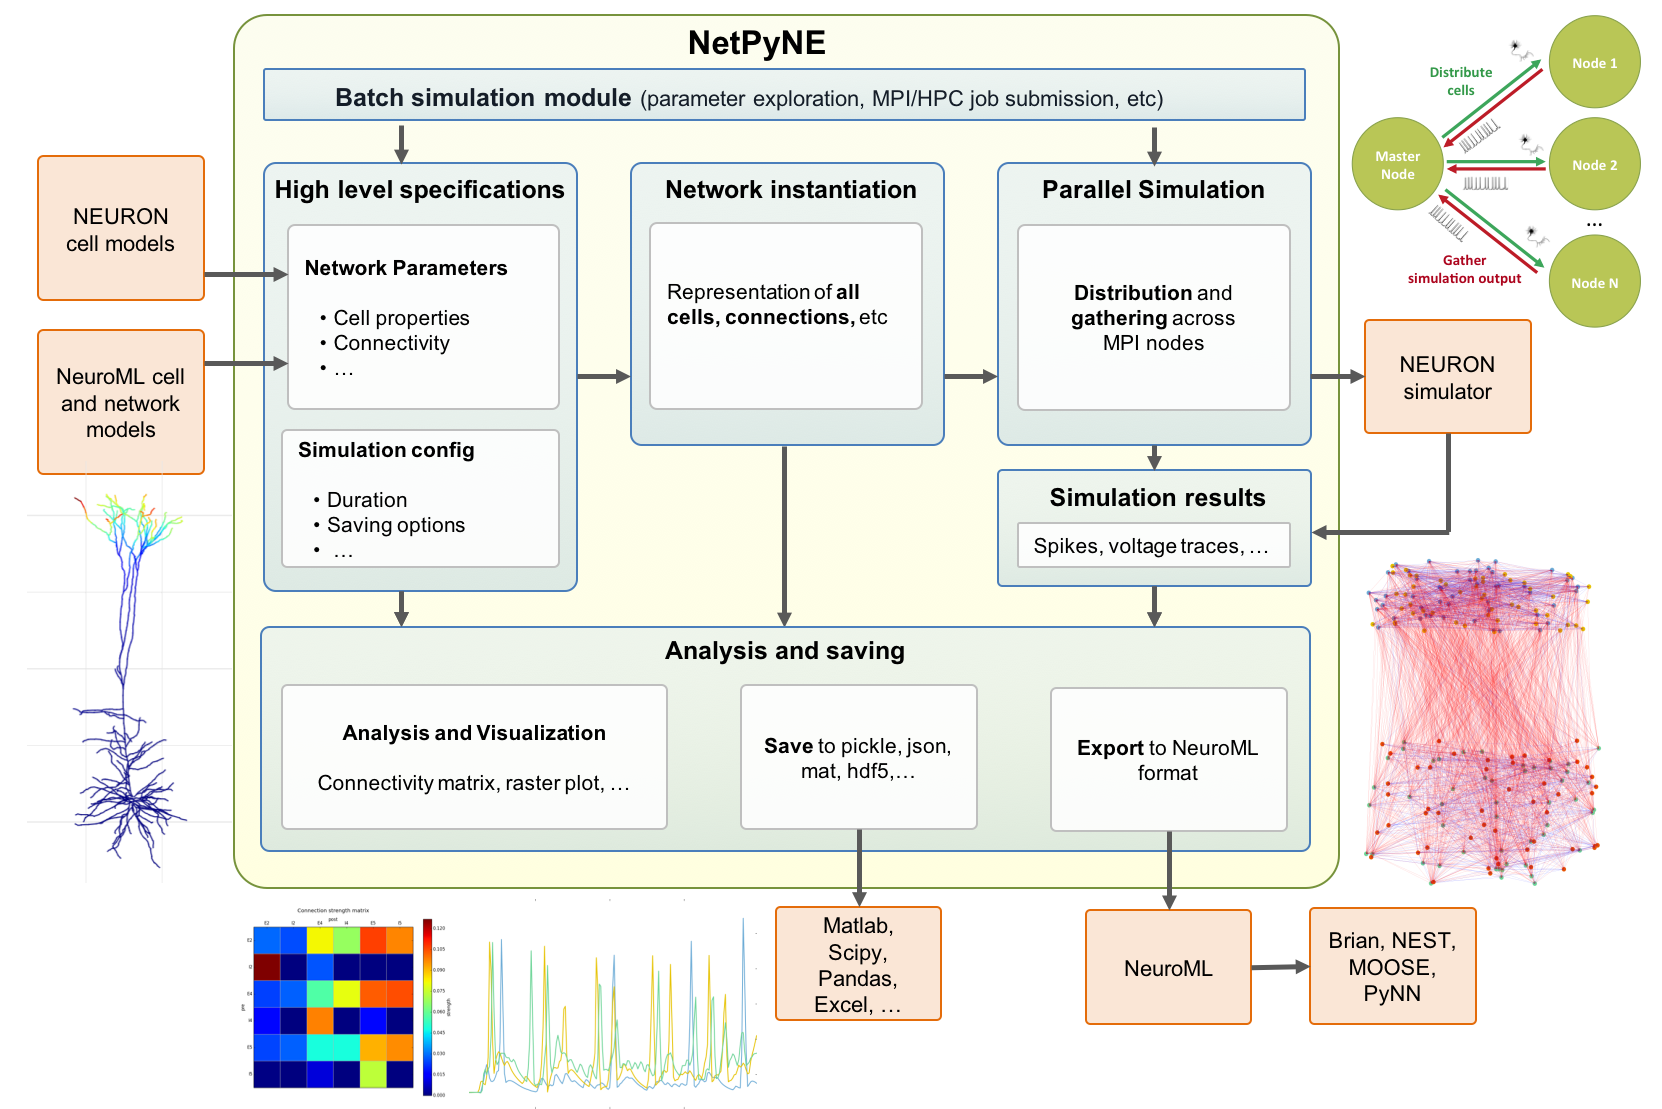
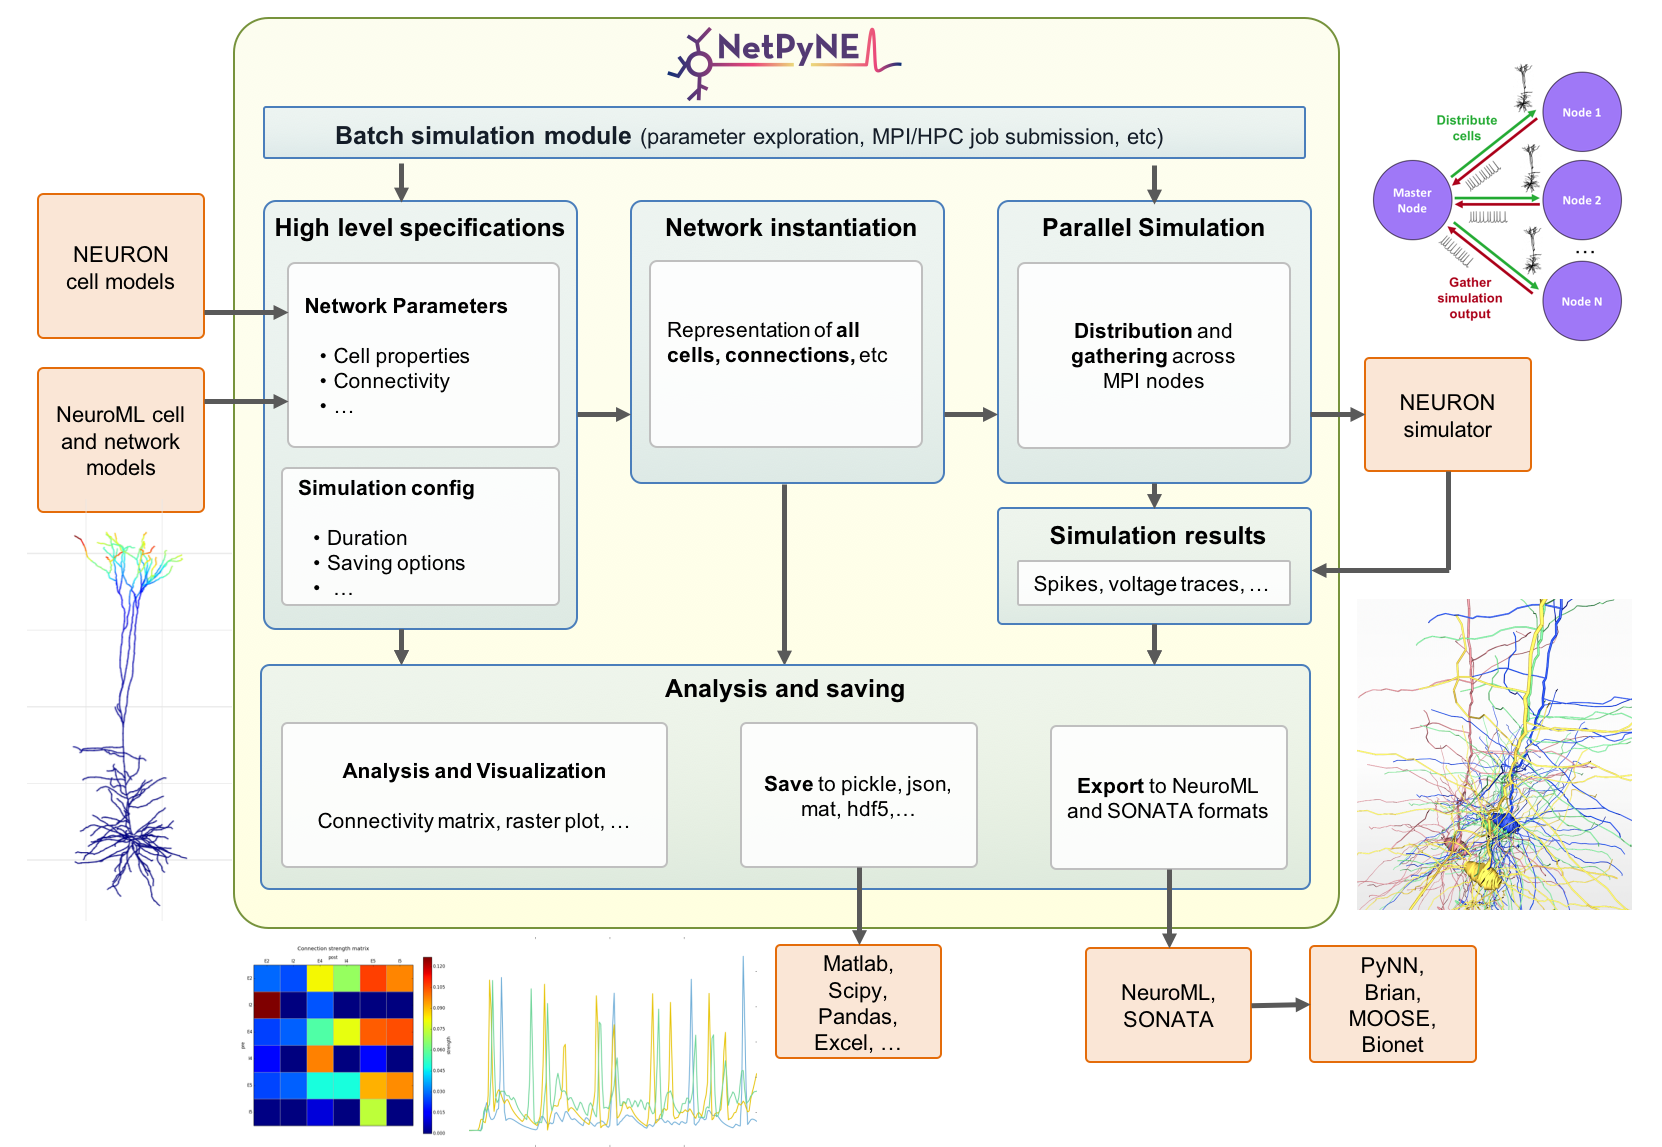
fixed doc

diff --git a/doc/source/_templates/layout.html b/doc/source/_templates/layout.html
@@ -1,0 +1,4 @@
+{% extends "!layout.html" %}
+{% block extrahead %}
+    <link href="{{ pathto("_static/style.css", True) }}" rel="stylesheet" type="text/css">
+{% endblock %}

diff --git a/doc/source/_static/style.css b/doc/source/_static/style.css
@@ -1,0 +1,3 @@
+.wy-nav-content {
+    max-width: 1000px !important;
+}

diff --git a/doc/source/overview.rst b/doc/source/overview.rst
@@ -18,54 +18,38 @@ For a more detailed overview of NetPyNE see:
 |
 
 .. image:: figs/schematic.png
-	:width: 70%	
+	:width: 90%	
 	:align: center
-
-What can I do with NetPyNE?
----------------------------
-
-NetPyNE converts a set of high-level specifications into a NEURON model. Specifications are provided in a simple, standardized, declarative Python-based format. The user can define network populations and their properties, including cell type, number or density. For each cell type, the user can define morphology, biophysics and implementation, or choose to import these from existing files (HOC templates or Python classes). Cell models for each population can be easily changed, and several models can be combined to generate efficient hybrid networks, *e.g.,* composed of Hodgkin-Huxley multicompartment cells and Izhikevich point neurons. 
-
-NetPyNE provides a flexible format to specify connectivity, with rules based on pre- and post-synaptic cell properties, such as cell type or location. Multiple connectivity functions are available, including all-to-all, probabilistic, convergent or divergent. Additionally, connectivity parameters (*e.g.,* weight, probability or delay) can be specified as a function of pre/post-synaptic spatial properties. This enables implementation of complex biological patterns, such as delays or connection probabilities that depend on distance between cells, or weights that depend on the post-synaptic neuron’s cortical depth. The subcellular distribution of synapses along the dendrites can be specified, and is automatically adapted to the morphology of each model neuron. Learning mechanisms, including spike-timing dependent plasticity and reinforcement learning, can be readily incorporated.
-
-Using the high-level network specifications, NetPyNE instantiates the full model (all cells and connections) as a hierarchical Python structure including the NEURON objects necessary for simulation. Based on a set of simulation options (*e.g.,* duration, integration step), NetPyNE runs the model in parallel using MPI, eliminating the burdensome task of manually distributing the workload and gathering data across computing nodes. Optionally NetPyNE plots output data, such as spike raster plots, LFP power spectra, connectivity matrix, or intrinsic time-varying variables (*e.g.,* voltage) of any subset of cells. To facilitate data sharing, the package saves and loads the high-level specifications, instantiated network, and simulation results using common file formats (Pickle, Matlab, JSON or HDF5). NetPyNE can convert instantiated networks to and from NeuroML, a standard data format for exchanging models in computational neuroscience.
-
-NetPyNE has been used to develop a variety of multiscale models: primary motor cortex with cortical depth-dependent connectivity; the claustrum; and sensorimotor cortex that learns to control a virtual arm. The package is easily installed via pip, and includes comprehensive online documentation, a step-by-step tutorial and example networks.
-
-NetPyNE has also been integrated with other tools in theneuroscience community: it adds flexibility to the Human Neocortical Neurosolver (https://hnn.brown.edu/) cortical model, is used by Open Source Brain (www.opensourcebrain.org) to run parallel simulation of NeuroML-based NEURON models, and is available to run simulations on XSEDE supercomputers via the Neuroscience Gateway (www.nsgportal.org).
-
 
 Major Features
 --------------
 
-* Converts a set of high-level specifications into a NEURON network model. 
+* **Converts a set of high-level specifications into a NEURON network model.**
 
-* Specifications are provided in a simple, standardized, declarative Python-based format.
+* **Specifications are provided in a simple, standardized, declarative Python-based format.**
 
 * Can easily define:
-
 	* *Populations*: cell type and model, number of neurons or density, spatial extent, ...
 	* *Cell properties*: Morphology, biophysics, implementation, ...
+    * *Reaction-diffusion (RxD)*: Species, regions, reactions, ... 
 	* *Synaptic mechanisms*: Time constants, reversal potential, implementation, ...
 	* *Stimulation*: Spike generators, current clamps, spatiotemporal properties, ...
 	* *Connectivity rules*: conditions of pre- an post-synaptic cells, different functions, ...
 	* *Simulation configuration*: duration, saving and analysis, graphical output, ... 
 
 * Cell properties highlights:
-
 	* Import existing HOC and Python defined cell models into NetPyNE format.
 	* Readily change model implementation *e.g.,* from Hodgkin-Huxley multicompartment to Izhikevich point neuron
 	* Combine multiple cell models into hybrid networks for efficient large-scale networks.
 
 * Connectivity rules highlights:
-
 	* Flexible connectivity rules based on pre- and post-synaptic cell properties (*e.g.,* cell type or location). 
 	* Connectivity functions available: all-to-all, probabilistic, convergent, divergent, and explicit list.  
 	* Can specify parameters (*e.g.,* weight, probability or delay) as a function of pre/post-synaptic spatial properties, *e.g.,* delays or probability that depend on distance between cells or cortical depth.
 	* Can specify subcellular distribution of synapses along the dendrites, and will be automatically adapted to the morphology of each model neuron. 
 	* Can easily add learning mechanisms to synapses, including STDP and reinforcement learning.
 
-* Generates NEURON network instance ready for MPI parallel simulation -- takes care of cell distribution and gathering of data.
+* **Generates NEURON network instance ready for MPI parallel simulation -- takes care of cell distribution and gathering of data.**
 
 * Analysis and plotting of network and simulation output:
 	* Raster plot
@@ -80,13 +64,18 @@ Major Features
 * Facilitates data sharing: 
 	* Can save/load high-level specs, network instance, simulation configuration and simulation results.
 	* Multiple formats supported: pickle, Matlab, JSON, CSV, HDF5
-	* Can export/import to/from NeuroML, the standard format for neural models.
+	* Can export/import to/from NeuroML and SONATA, standardized formats for neural models.
 
 * Batch simulations:
 	* Easy specification of parameters and range of values to explore in batch simulations.
 	* Pre-defined, configurable setups to automatically submit jobs in multicore machines (Bulletin board) or supercomputers (SLURM or PBS Torque)
 	* Analysis and visualization of multidimensional batch simulation results.
 
+* Current usage:
+    * Used to develop models of many different brain regions and phenomena. See full list at www.netpyne.org/models
+    * Integrated with the Human Neocortical Neurosolver (https://hnn.brown.edu/) to add flexibility to its cortical model 
+    * Used by Open Source Brain (www.opensourcebrain.org) to run parallel simulation of NeuroML-based NEURON models
+    * Available to run simulations on XSEDE supercomputers via the Neuroscience Gateway (www.nsgportal.org).
 
 Questions, suggestions and contributions
 -----------------------------------------
@@ -108,7 +97,7 @@ Publications
 About NetPyNE 
 ^^^^^^^^^^^^^^^^
 
-- Dura-Bernal S, Suter B, Gleeson P, Cantarelli M, Quintana A, Rodriguez F, Kedziora DJ, Chadderdon GL, Kerr CC, Neymotin SA, McDougal R, Hines M, Shepherd GMG, Lytton WW. (2018) NetPyNE: a tool for data-driven multiscale modeling of brain circuits. `bioRxiv 461137 <https://www.biorxiv.org/content/early/2018/11/03/461137>`_
+- Dura-Bernal S, Suter B, Gleeson P, Cantarelli M, Quintana A, Rodriguez F, Kedziora DJ, Chadderdon GL, Kerr CC, Neymotin SA, McDougal R, Hines M, Shepherd GMG, Lytton WW. **NetPyNE: a tool for data-driven multiscale modeling of brain circuits.** `bioRxiv 461137 <https://www.biorxiv.org/content/early/2018/11/03/461137>`_ , *2018.*
 
 - Dura-Bernal S, Suter BA, Quintana A, Cantarelli M, Gleeson P, Rodriguez F, Neymotin SA, Hines M, Shepherd GMG, Lytton WW. **NetPyNE: a GUI-based tool to build, simulate and analyze large-scale, data-driven network models in parallel NEURON.** *Society for Neuroscience (SfN), 2018*.
 
@@ -127,6 +116,8 @@ Using NetPyNE
 - Romaro C, Araujo Najman F, Dura-Bernal S, Roque AC. **Implementation of the Potjans-Diesmann cortical microcircuit model in NetPyNE/NEURON with rescaling option.** *Computational Neuroscience (CNS), 2018.*
 
 - Rodriguez F. **Dentate gyrus network model.** *Computational Neuroscience (CNS), 2018.*
+
+- Dura-Bernal S, Neymotin SA, Suter BA, Shepherd GMG, Lytton WW (2018) **Long-range inputs and H-current regulate different modes of operation in a multiscale model of mouse M1 microcircuits.** `bioRxiv 201707 <https://www.biorxiv.org/content/10.1101/201707v3>`_ , *2018.*
 
 - Lytton WW, Seidenstein AH, Dura-Bernal S, McDougal RA, Schurmann F, Hines ML. **Simulation neurotechnologies for advancing brain research: Parallelizing large networks in NEURON.** *Neural Computation, 2016.*
 

diff --git a/doc/source/install.rst b/doc/source/install.rst
@@ -3,9 +3,11 @@
 Installation
 =======================================
 
-See here instructions to :ref:`install_only_netpyne`.
+Please select the type of installation you want:
 
-See here instructions to :ref:`install_gui` section below. Note that the NetPyNE GUI only supports Python 3. The :ref:`install_gui` section also includes installation instructions for NEURON and NetPyNE, using specific versions that have been fully tested with the GUI.
+- :ref:`install_only_netpyne`.
+
+- :ref:`install_gui`. This link also includes installation instructions for NEURON and NetPyNE, using specific versions that have been fully tested with the GUI. Note that the NetPyNE GUI only supports Python 3.
 
 If you have any issues during the installation please post a message with the details to the `NetPyNE forum <www.netpyne.org/forum>`_ or the `NetPyNE GitHub issues <https://github.com/Neurosim-lab/netpyne/issues>`_ .  
 
@@ -20,15 +22,17 @@ Requirements
 
 The NetPyNE package requires:
 
-- Python 2 or 3 (2.7, 3.6 and 3.7 are supported). If you don't have it already installed, download it from the `official Python web <www.python.org>`_ . Alternatively, you can download the `Anaconda Distribution <www.anaconda.com/distribution/>`_ which also includes several data science and visualization packages.
+- Python 2 or 3 (2.7, 3.6 and 3.7 are supported). If you don't have it installed, download it from the `official Python web <www.python.org>`_. Alternatively, you can download the `Anaconda Distribution <www.anaconda.com/distribution/>`_ which also includes several data science and visualization packages.
 
-- The NEURON simulator. If you don't have it already installed, see NEURON's `installation instructions <http://www.neuron.yale.edu/neuron/download/>`_ . If you would like to run parallelized simulations, please ensure you install NEURON with MPI support (`OpenMPI <https://www.open-mpi.org/>`_ ). 
 
-- The ``pip`` tool for installing Python packages. If you don't have it already installed, see `pip installation here <https://pip.pypa.io/en/stable/installing/>`_ .
+- The NEURON simulator. If you don't have it already installed, see NEURON's `installation instructions <http://www.neuron.yale.edu/neuron/download/>`_. If you would like to run parallelized simulations, please ensure you install NEURON with MPI support (`OpenMPI <https://www.open-mpi.org/>`_). 
+
+
+- The ``pip`` tool for installing Python packages. If you don't have it already installed, see `pip installation here <https://pip.pypa.io/en/stable/installing/>`_.
 
 
 Install the latest released version of NetPyNE via pip (Recommended)
-^^^^^^^^^^^^^^^^^^^^^^^^^^^^^^^^^^^^^^^^^^^^^^^^^^^^^^^^^^^^^^^^^^^
+^^^^^^^^^^^^^^^^^^^^^^^^^^^^^^^^^^^^^^^^^^^^^^^^^^^^^^^^^^^^^^^^^^^^^^^^
 
 Linux or Mac OS:  ``pip install netpyne`` 
 
@@ -45,22 +49,19 @@ Linux or Mac OS: ``pip install netpyne -U``
 Windows: ``python -m pip install -U netpyne`` 
 
 
-Install the development version of NetPyNE via pip 
-^^^^^^^^^^^^^^^^^^^^^^^^^^^^^^^^^^^^^^^^^^^^^^^^^^^
+Install the development version of NetPyNE via GitHub and pip
+^^^^^^^^^^^^^^^^^^^^^^^^^^^^^^^^^^^^^^^^^^^^^^^^^^^^^^^^^^^^^^^^^
 
-This will install the version in the GitHub "development" branch -- it will include some of the latest enhancements and bug fixes, but could also include temporary bugs:
+The NetPyNE package source files, as well as example models, are available via GitHub at: https://github.com/Neurosim-lab/netpyne. The following instructions will install the version in the GitHub "development" branch -- it will include some of the latest enhancements and bug fixes, but could also include temporary bugs:
 
-1) git clone https://github.com/Neurosim-lab/netpyne.git
-2) cd netpyne
-3) git checkout development
-4) pip install -e .
+1) ``git clone https://github.com/Neurosim-lab/netpyne.git``
+2) ``cd netpyne``
+3) ``git checkout development``
+4) ``pip install -e .``
 
-pip will add a symlink in the default python packages folder to the cloned netpyne folder (so you don't need to modify PYTHONPATH). If new changes are available just need to pull from cloned netpyne repo.
+pip will add a symlink in the default python packages folder to the cloned netpyne folder (so you don't need to modify PYTHONPATH). If new changes are available just need to ``git pull`` from cloned netpyne repo.
 
-
-Install NetPyNE via Github (for developers) 
-^^^^^^^^^^^^^^^^^^^^^^^^^^^^^^^^^^^^^^^^^^^^^
-The NetPyNE package source files, as well as example models, are available via GitHub at: https://github.com/Neurosim-lab/netpyne
+This version can also be used by developers interested in extending the package. 
 
 .. _install_gui:
 
